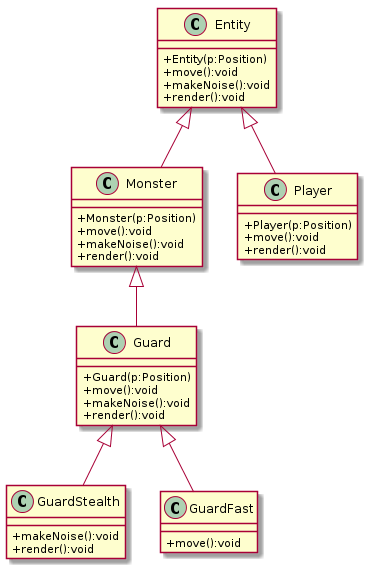
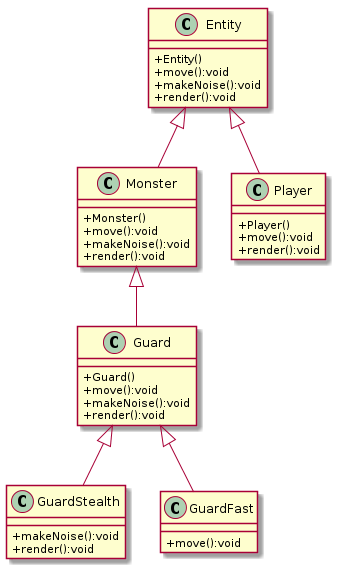
comp/inheritance

Changed region(s): [[0.0, 0.0, 0.9884, 1.0]]

diff --git a/content/teaching/CS123/examples/inheritcomp/index.md b/content/teaching/CS123/examples/inheritcomp/index.md
@@ -34,13 +34,19 @@ even when it might feel more natural to use inheritance. Some programming
 languages (like Go) don't allow inheritance at all.
 
 ## Why is it a good idea?
-Firstly, it can be easier once you get used to it. Building a "family
+Firstly, it can be easier once you get used to it, particularly
+for larger projects. Building a "family
 tree" of classes with inheritance involves finding common properties and
 behaviours they all have, and this can be difficult. It can be tempting
-to try to put things into the tree which don't really belong there.
+to try to put things into the tree which don't really belong there,
+and you can find yourself with a mess.
 
 Secondly, you get more flexible code which is easier to reuse because the
-links between objects are much "looser." You often find the systems you
+links between objects are much "looser."  An important rule in
+software engineering is **loose coupling and tight cohesion**: each 
+part of the code should have as few connections to other part as possible,
+and each part should do easily defined task.
+You often find the systems you
 build this way are more powerful and easier to work with. We'll
 see an example of this later on.
 
@@ -52,9 +58,11 @@ Code which uses a Collection can use any of those subclasses instead.
 How can this work if we don't use inheritance? 
 
 The answer is that while we avoid inheritance of classes, we can still
-use **interfaces**. Implementing an interface is a lot like creating
-a subclass, except that the methods we are implementing don't have 
+use **interfaces**. Writing an interface is a lot like creating
+a class, except that the methods we write don't have 
 any actual "body code" (code which does stuff) in the interface definition.
+Instead of writing a subclass, we **implement** the interface: we write
+a class which has all the methods described in the interface.
 
 ## An example
 
@@ -62,15 +70,13 @@ any actual "body code" (code which does stuff) in the interface definition.
 
 Let's try a simple example. Imagine we are writing a game which has a player
 and some monsters. The monsters behave in different ways, but have some things
-in common with the player - we'll call them "guards." We might write something
+in common with the player. One particular kind of monster is a "guard." We might write something
 like this using inheritance:
 
 {{< figure src="umlgameinher.png" title="Game design with inheritance" >}}
 
 At the root of this tree we have the Entity class, which is anything 
-in the game which can move around. 
-We can see that each class has a constructor, which takes the object's
-initial position in the world, and Entity has three instance variables which the
+in the game which can move around.  This class has three methods which the
 subclasses can override to change the behaviour:
 * **move** to move the object,
 * **makeNoise** to make some kind of random noise at intervals,
@@ -80,12 +86,11 @@ Entity will have some kind of default behaviour
 for each method - for example, *makeNoise* might not do anything. In this
 case, Player doesn't override it, so the Player doesn't make any noise.
 
-There are probably going to be lots of other instance variables too, but this is just
+There are probably going to be lots of other methods (and instance variables too), but this is just
 an outline.
 
 
-Each subclass changes the behaviour in ways you should be familiar with by
-now. For example, *move* will be very different for Player than for Monster:
+Each subclass changes the behaviour in different ways. For example, *move* will be very different for Player than for Monster:
 the Player code will read the input and move the object, while the Monster
 code might automatically move the object towards the Player.
 
@@ -94,8 +99,9 @@ has special code allowing that monster to move very quickly. Let's also
 imagine that *makeNoise* and *render* for GuardStealth make that monster
 hard to see and hear.
 
+#### A problem
 Let's also imagine that we've designed this system and got it all working,
-when our manager walks in and asks us to make a new kind of monster: a fast,
+when our manager asks us to make a new kind of monster: a fast,
 silent guard. It's going to be very difficult, because we need a class which
 is a subclass of Guard, but has the *move* of GuardFast and the *makeNoise*
 and *render* of GuardSilent. We're going to have to do some ugly things
@@ -112,38 +118,36 @@ sound and visuals into a single concept for convenience, so Entity needs:
 * A **Mover** to move the object around and give it a location in the world,
 * an **Appearance** to draw the object and make sounds.
 
-We'll create these as **interfaces**, and then create classes which implement
+We'll design these as **interfaces**, and then create classes which implement
 the Mover and Appearance interfaces in different ways. The Mover interface
 will specify that there must be a *move* method to move an entity,
 and Appearance will specify  *render* and *makeNoise* methods.
-Each class will have constructors which take the Entity they should work on.
 
 Now we can think about the classes which will implement the Mover and
 Appearance interfaces. Movers first:
 * **PlayerMover** will make any entity it is attached to move like a player -
-that is, it will be controlled by the mouse and keyboard
+that is, it will be controlled by the mouse and keyboard;
 * **GuardMover** will make the entity behave like guard monster - it will
 move using AI to hunt the player (you'll learn how to write this sort of 
-pathfinding and obstacle avoidance AI in later modules!)
-* **GuardFastMover** will the it behave similarly, but faster
+pathfinding and obstacle avoidance AI in later modules!);
+* **GuardFastMover** will behave similarly, but faster.
 
 Now Appearances:
-* **PlayerAppearance** will make it look and sound like a player
-* **GuardAppearance** will make it look at sound like a guard
+* **PlayerAppearance** will make it look and sound like a player,
+* **GuardAppearance** will make it look at sound like a guard,
 * **GuardStealthAppearance** will be similar, but much harder to see and hear.
 
-Each Mover and Appearance is going to need to store the entity
-it works with, and Entity is going to need to be able to modify 
-the Mover and Appearance.
+For convenience, we're going to create a two-way link:
+* Each Mover and Appearance will store the entity
+it works with. To do this, we will pass the Entity into the Mover and
+Appearance constructors. This means that Movers and Appearances can contain
+unique data about the Entity they are attached to, which can be every useful.
+* Each Entity will store the Mover and Appearance it is using. We will
+do this using setter methods.
 
 This leads us to something like this:
 
 {{< figure src="umlgamecomp.png" title="Game design with composition (click to zoom)" >}}
-
-Note that we no longer pass a Position into the Entity constructor - this
-will probably be part of the Mover classes now. Without a Mover, an entity doesn't
-need a Position. In a real system, the Mover would probably have a way of
-getting the position of the entity.
 
 Also note that there should also be relationships going from each behaviour class
 to Entity, since they each keep a reference to the Entity they control,
@@ -170,7 +174,7 @@ public interface Mover {
 
 The method declarations don't have
 any actual "bodies" (code in curly brackets that does things), because
-as with all interfaces, they just say which methods should be contained
+(as with all interfaces) they just say which methods should be contained
 in any class which implements them. 
 
 Now we can write the Entity class:
@@ -181,8 +185,8 @@ public class Entity {
     private Appearance appearance;
 
     // constructor which initialises the entity's mover and appearance to null.
-    // By default, entities do not move (and do not have a position), they are
-    // invisible, and make no noise.
+    // By default, entities do not move, they are invisible,
+    // and make no noise.
     
     public Entity(){
         mover = null;
@@ -227,15 +231,16 @@ public class Entity {
 ```
 In this class, there are two private instance variables - the Mover and Appearance
 used by each entity. There's a constructor which sets up those two
-variables, and then the actual methods.
+variables, and then the actual methods for moving, drawing and
+making noises.
 
-All the methods do is **forward** the
+All these methods do is **forward** the
 operation to the Mover or Appearance: for example *move* just tells the
 connected Mover to do its *move*.
 
 You may have noticed that *setMover* and *setAppearance* both return
 the entity itself ("return this"). That may seem a little strange,
-but it permits a useful trick I'll explain later.
+but it allows a useful trick I'll explain later.
 
 Here is an example Mover - in this case it's the PlayerMover:
 ```java
@@ -309,10 +314,12 @@ example, is how we would create an Entity which behaves like a Player:
         player.setAppearance(a);
 ```
 Note how the two-way link between the player and its "behaviour objects"
-is set up: we create the Mover and the Appearance, passing 
+is set up:
+* we create the Mover and the Appearance, passing 
 a reference to the player entity into their constructors.
-The Mover and Appearance each store that
-reference in a private instance variable. Once created, references to
+* The Mover and Appearance each store that
+reference in a private instance variable.
+* Once created, references to
 the Mover and Appearance are set inside the player entity.
 
 Now for that trick I mentioned earlier. Because *setMover* and
@@ -327,7 +334,8 @@ Now for that trick I mentioned earlier. Because *setMover* and
         
         player.setMover(m).setAppearance(a);
 ```
-That's quite nice, and easy to read. This is **fluent programming**,
+That's quite nice, and easy to read. This is sometimes called
+[**fluent** programming](https://en.wikipedia.org/wiki/Fluent_interface),
 and you may find examples of it in your own reading.
 
 Now we've created a player, we can create a guard in a similar way:
@@ -350,7 +358,7 @@ also easily make a "fast, stealthy guard":
         m.setAppearance(new GuardStealthAppearance(m))
             .setMover(new GuardFastMover(m)); 
 ```
-We can even create a guard that looks like the player:
+We can even create a fast guard that looks like the player:
 ```java
         Entity m = new Entity();
         m.setAppearance(new PlayerAppearance(m))
@@ -358,8 +366,84 @@ We can even create a guard that looks like the player:
 ```
 In fact, we can combine any Mover with any Appearance to make many
 more combinations without having to create a new subclass for each
-one - everything is just an Entity, but the objects that entity is
-linked to control how it behaves.
+one - everything is just an Entity, but the objects linked to it
+control how it behaves.
+
+There's another advantage: we can **change an Entity's behaviour
+while the program is running**. If we want a guard to suddenly turn
+stealthy, we just need to replace its Appearance with a
+GuardStealthAppearance. We can't do this this in the inheritance
+solution.
+
+#### Possible refactoring?
+When we create an Entity we have to do several things in the right
+order:
+* Create the Entity itself
+* Create its Mover and Appearance, remembering to pass the Entity
+into the constructors (so they are able to link back to their Entity)
+* Link the Entity to its Mover and Appearance
+
+That's a lot to remember, and it's possible to forget to do some of it.
+How can we limit the "cognitive load?"
+* We have to create the entity, we can't avoid that
+* We have to create the Mover and Appearance
+
+But it might be possible to let the Mover and Appearance link the 
+Entity in their constructors. Look at this alternative version of
+PlayerMover:
+```java
+public class PlayerMover implements Mover {
+    // the entity to which mover should move
+    private Entity entity;
+
+    // set up the mover, taking the entity we should
+    // be moving
+    public PlayerMover(Entity e){
+        entity = e;
+        // link the entity to me
+        e.setMover(this);
+    }
+
+    // this is the implementation of Mover.move(), which
+    // moves the entity
+    @Override
+    public void move() {
+        // ... code that moves the entity based on mouse
+        // and keyboard, because this is a PlayerMover
+    }
+}
+```
+This calls *setMover* inside the constructor, linking the Entity
+to the Mover itself. If we did a similar thing inside PlayerAppearance
+we could create a Player with:
+```java
+Entity player = new Entity();
+// create the mover to make it move like a player;
+// will automatically create the required links between
+// objects
+new PlayerMover(player);
+// similarly create the player appearance
+new PlayerAppearance(player);
+```
+This is good, there's less to remember.
+
+But I'm **not going to do it**. Why?
+
+**Because it looks really strange.** You have two "bare constructors" that
+are just creating objects with no indication of how they are used. The
+objects they make aren't even assigned to variables. Instead, code inside
+the constructors is assigning them to instance variables inside the Entity.
+When a new user comes to read the above code they might
+be very confused.
+
+Also, because we might use *setMover* or *setAppearance* to change the behaviour
+while the program is running, it seems natural to me that we should
+use the same kind of code - with obvious calls to those methods - 
+when we create the entity.
+
+However, I'm not going to say that it's the wrong thing to do. A lot of
+software engineering is about finding a balance: here, a balance between
+how "obvious" the code is about what it is doing, and how brief the code is.
 
 ## Conclusion
 
@@ -383,3 +467,4 @@ for Entity, for example).
 
 Finally, this is exactly how the Unity and Unreal game
 engines work. Actually, Unity takes it quite a lot further.
+

diff --git a/content/teaching/CS123/examples/logger2/index.md b/content/teaching/CS123/examples/logger2/index.md
@@ -1,5 +1,5 @@
 +++
-title = "2. Changing behaviours with abstract classes" 
+title = "Logging, Part 2: Changing behaviours with abstract classes" 
 summary = "Changing what the logger does by making it abstract and using subclasses"
 date=2020-12-14  # Add today's date.
 categories = ["example123"]

diff --git a/content/teaching/CS123/examples/logger3/index.md b/content/teaching/CS123/examples/logger3/index.md
@@ -1,5 +1,5 @@
 +++
-title = "3. Using composition instead of inheritance"
+title = "Logging, Part 3: Using composition instead of inheritance"
 summary = "Changing what the logger does by plugging in an output object"
 date=2020-12-14  # Add today's date.
 weight = 102

diff --git a/content/teaching/CS123/examples/logger1/index.md b/content/teaching/CS123/examples/logger1/index.md
@@ -1,5 +1,5 @@
 +++
-title = "1. Creating links between objects"
+title = "Logging, Part 1: Creating links between objects"
 summary = "An 'error logger' from an old project"  # Add a page description.
 date=2020-12-14  # Add today's date.
 categories = ["example123"]
